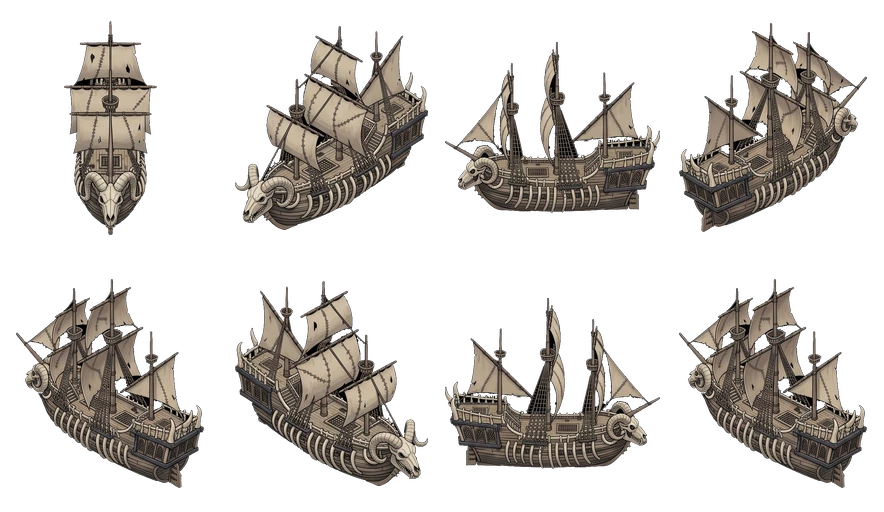
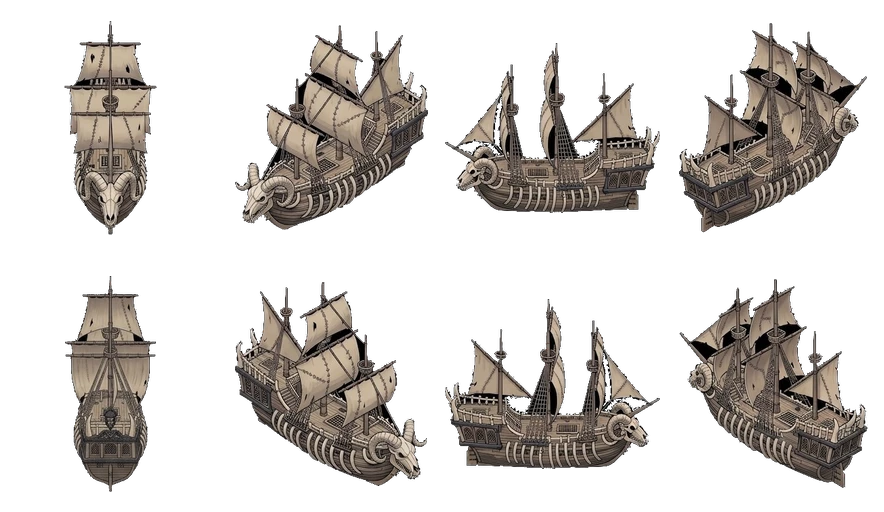
Elit 7 Atlantis ve 8 Kemik Biçici: kuzey açılı düzeltilmiş sayfalar (#70)
Atlantis sayfasında G/K kareleri yer değiştirmişti; ortadaki pusula ve beyaz
ızgara silindi. Kemik Biçici'de kuzey artık gerçek görünüm; iki yan kare de
batı olduğundan doğu aynadır. Geçici yön notu kaldırıldı, görsel sürüm 9.

Claude-Session: https://claude.ai/code/session_01Mc9BhaSSsCCxzjNzAUDeqJ

diff --git a/src/main.ts b/src/main.ts
@@ -102,7 +102,7 @@ const rasterItemAssets:Partial<Record<QuickItemId,string>>={};
 rasterItemAssets.iron='/assets/ammo-iron-v1.webp';rasterItemAssets.chain='/assets/ammo-chain-v1.webp';
 // Elit gemiler: tersane kartındaki tasarımın birebir aynısı, gemi başına temiz raster (384 px, pruva sol-aşağı).
 // Gemi görselleri aynı dosya adıyla yenilendiğinde tarayıcı önbelleği eskisini göstermesin diye sürüm eki (görsel değişince artır)
-const SHIP_ART_REV='8';
+const SHIP_ART_REV='9';
 const eliteArtUrl=(id:string)=>`/assets/elite-${id}-art-v2.webp?r=${SHIP_ART_REV}`;
 const eliteArtImages=new Map<string,HTMLImageElement>();
 function eliteArtImage(id:string){let im=eliteArtImages.get(id);if(!im){im=new Image();im.decoding='async';im.src=eliteArtUrl(id);eliteArtImages.set(id,im);}return im;}

diff --git a/src/elite-ships.ts b/src/elite-ships.ts
@@ -30,8 +30,6 @@ export const eliteById=(id:string)=>ELITE_SHIPS.find(ship=>ship.id===id)??ELITE_
 export const COMPASS=['N','NE','E','SE','S','SW','W','NW'] as const;
 export type Compass=typeof COMPASS[number];
 const DEFAULT_SHOWS='S SW W NE N SE E NW';
-// Kemik Biçici (bone), ve Kadim Atlantis Muhafızı (atlantean) sayfalarında kuzey açısı çizimde yoktu; K karesinde geçici
-// olarak KB görünümü durur (kemikte D, B'nin aynasıdır). Gerçek K görünümü gelince aynı kareye konur.
 export const ELITE_DIR_SHOWS:Partial<Record<EliteShipId,string>>={
 };
 // Pusula dizini (0 = kuzey, saat yönünde 45°) için {kare, ayna}
